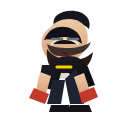
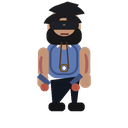
feat: ajustar player raster e derrota compartilhavel

Changed region(s): [[0.2188, 0.0, 0.7812, 0.875]]

diff --git a/src/features/game/GameExperience.tsx b/src/features/game/GameExperience.tsx
@@ -166,9 +166,9 @@ function createObstacle(id: number): ObstacleState {
       id,
       type,
       x: GAME_WIDTH + 40,
-      y: GROUND_Y - 124,
-      w: 82,
-      h: 124,
+      y: GROUND_Y - 104,
+      w: 74,
+      h: 104,
     };
   }
 
@@ -225,6 +225,10 @@ function getCityLabel(progress: number) {
 }
 
 function getOutcomeTitle(snapshot: Snapshot) {
+  if (snapshot.status === "lost" && snapshot.total >= 8) {
+    return "Cidade em Movimento";
+  }
+
   if (snapshot.easterEggsFound >= 4) {
     return "Guardião da Memória";
   }
@@ -622,7 +626,7 @@ export default function GameExperience({
         }
 
         if (inputRef.current.jumpPressed && player.onGround) {
-          player.vy = -585;
+          player.vy = -615;
           player.onGround = false;
         }
 
@@ -701,7 +705,7 @@ export default function GameExperience({
             obstacle.type === "processinho"
               ? { x: obstacle.x + 18, y: obstacle.y + 16, w: obstacle.w - 36, h: obstacle.h - 32 }
               : obstacle.type === "muralha"
-                ? { x: obstacle.x + 14, y: obstacle.y + 12, w: obstacle.w - 28, h: obstacle.h - 20 }
+                ? { x: obstacle.x + 18, y: obstacle.y + 18, w: obstacle.w - 36, h: obstacle.h - 34 }
                 : { x: obstacle.x + 14, y: obstacle.y + 12, w: obstacle.w - 28, h: obstacle.h - 18 };
 
           if (intersects(playerHitbox, hitbox)) {
@@ -765,6 +769,14 @@ export default function GameExperience({
   }, [assets, prefersReducedMotion, gameStarted, runId]);
 
   const outcomeTitle = getOutcomeTitle(snapshot);
+  const didWin = snapshot.status === "won";
+  const finishTitle = didWin
+    ? "Você reuniu relatos e ajudou a organizar uma cidade melhor."
+    : "Você travou numa barreira, mas sua tentativa ainda ajuda a puxar mais gente para a missão.";
+  const shareLead = didWin
+    ? `Resultado · ${snapshot.total} relatos · ${snapshot.obstaclesDodged} obstáculos desviados · ${snapshot.easterEggsFound} easter eggs`
+    : `Tentativa compartilhável · ${snapshot.total} relatos · ${snapshot.obstaclesDodged} obstáculos desviados · ${snapshot.easterEggsFound} easter eggs`;
+  const shareButtonLabel = didWin ? "Compartilhar resultado" : "Compartilhar tentativa";
   const shareUrlAbsolute = toAbsoluteUrl(shareUrl);
   const shareMessage = buildGameShareMessage({
     link: shareUrlAbsolute,
@@ -1102,20 +1114,18 @@ export default function GameExperience({
             <div className="game-finish">
               <div className="game-finish__panel">
                 <p className="game-finish__eyebrow">{outcomeTitle}</p>
-                <h3 className="game-finish__title">
-                  Você reuniu relatos e ajudou a organizar uma cidade melhor.
-                </h3>
+                <h3 className="game-finish__title">{finishTitle}</h3>
                 <p className="game-finish__text">{SITE_IDENTITY.fullLabel}</p>
                 <p className="game-finish__text">{SITE_IDENTITY.appFullLabel}</p>
 
                 <div className="game-share-card" aria-label="Card visual compartilhável do resultado">
-                  <p className="game-share-card__eyebrow">Eu joguei a Missão Relâmpago</p>
+                  <p className="game-share-card__eyebrow">
+                    {didWin ? "Eu joguei a Missão Relâmpago" : "Eu joguei a Missão Relâmpago e quero puxar mais gente"}
+                  </p>
                   <h4 className="game-share-card__title">{outcomeTitle}</h4>
                   <p className="game-share-card__meta">Pré-campanha Alexandre VR Abandonada</p>
                   <p className="game-share-card__meta">Missão ÉLuta — Escutar • Cuidar • Organizar</p>
-                  <p className="game-share-card__lead">
-                    Resultado · {snapshot.total} relatos · {snapshot.obstaclesDodged} obstáculos desviados · {snapshot.easterEggsFound} easter eggs
-                  </p>
+                  <p className="game-share-card__lead">{shareLead}</p>
                   <div className="game-share-card__grid">
                     <span>Relatos coletados {snapshot.total}</span>
                     <span>Obstáculos desviados {snapshot.obstaclesDodged}</span>
@@ -1133,9 +1143,7 @@ export default function GameExperience({
                   <span>Easter eggs: {snapshot.easterEggsFound}/6</span>
                 </div>
                 <div className="game-finish__actions">
-                  <button type="button" className="btn btn-primary" onClick={handleShare}>
-                    Compartilhar resultado
-                  </button>
+                  <button type="button" className="btn btn-primary" onClick={handleShare}>{shareButtonLabel}</button>
                   <a href={appUrl} className="btn btn-secondary" onClick={() => handleAppCtaClick("app")}>Entrar no app</a>
                   <a href={signupUrl} className="btn btn-ghost" onClick={() => handleAppCtaClick("mission")}>Receber primeira missão</a>
                   <button type="button" className="btn btn-ghost" onClick={() => { handleAppCtaClick("share3"); void handleNetworkShare("whatsapp"); }}>

diff --git a/scripts/render-player-raster.py b/scripts/render-player-raster.py
@@ -1,0 +1,133 @@
+from pathlib import Path
+from PIL import Image, ImageDraw, ImageFilter
+
+ROOT = Path(__file__).resolve().parents[1]
+OUT = ROOT / "public" / "game"
+SCALE = 4
+W = 128 * SCALE
+H = 128 * SCALE
+
+
+def new_canvas():
+    return Image.new("RGBA", (W, H), (0, 0, 0, 0))
+
+
+def ellipse_box(cx, cy, rx, ry):
+    return (cx - rx, cy - ry, cx + rx, cy + ry)
+
+
+def draw_avatar(state: str):
+    image = new_canvas()
+    draw = ImageDraw.Draw(image)
+
+    skin = (194, 148, 118, 255)
+    beard = (24, 23, 25, 255)
+    hair = (28, 27, 31, 255)
+    shirt = (95, 122, 178, 255)
+    shirt_shadow = (62, 83, 130, 255)
+    jeans = (18, 22, 32, 255)
+    shoes = (20, 20, 22, 255)
+    tattoo = (151, 52, 53, 200)
+    pendant = (108, 78, 46, 255)
+    cord = (71, 52, 37, 255)
+    glasses = (16, 17, 20, 240)
+    light = (245, 241, 232, 255)
+    accent = (228, 189, 92, 255)
+
+    if state == "idle":
+        body_shift = 0
+        arm_shift = 0
+        leg_left = [202, 320, 230, 418]
+        leg_right = [278, 320, 306, 418]
+        torso = [186, 164, 326, 312]
+        left_arm = [152, 190, 194, 308]
+        right_arm = [318, 188, 360, 308]
+    elif state == "run":
+        body_shift = -10
+        arm_shift = 22
+        leg_left = [177, 314, 228, 420]
+        leg_right = [280, 304, 334, 420]
+        torso = [173, 168, 312, 308]
+        left_arm = [138, 194, 202, 296]
+        right_arm = [298, 174, 364, 272]
+    else:
+        body_shift = -4
+        arm_shift = 30
+        leg_left = [168, 302, 230, 412]
+        leg_right = [282, 300, 344, 412]
+        torso = [180, 158, 324, 300]
+        left_arm = [141, 184, 210, 278]
+        right_arm = [302, 182, 372, 280]
+
+    cx = 256 + body_shift
+
+    draw.rounded_rectangle(tuple(torso), radius=44, fill=shirt)
+    draw.rounded_rectangle((torso[0] + 12, torso[1] + 10, torso[2] - 14, torso[3] - 12), radius=40, outline=shirt_shadow, width=8)
+    draw.rounded_rectangle((cx - 16, torso[1] - 10, cx + 16, torso[1] + 34), radius=14, fill=skin)
+    draw.arc((cx - 34, torso[1] + 6, cx + 34, torso[1] + 64), 205, 335, fill=light, width=8)
+
+    draw.rounded_rectangle(tuple(left_arm), radius=28, fill=skin)
+    draw.rounded_rectangle(tuple(right_arm), radius=28, fill=skin)
+    draw.arc((left_arm[0] + 4, left_arm[1] + 30, left_arm[2] - 10, left_arm[3] - 10), 78, 246, fill=tattoo, width=12)
+    draw.arc((right_arm[0] + 6, right_arm[1] + 24, right_arm[2] - 8, right_arm[3] - 6), 280, 74, fill=tattoo, width=12)
+
+    if state == "idle":
+        draw.rounded_rectangle((150, 294, 192, 350), radius=18, fill=skin)
+        draw.rounded_rectangle((320, 292, 362, 350), radius=18, fill=skin)
+    elif state == "run":
+        draw.rounded_rectangle((136, 278, 182, 334), radius=18, fill=skin)
+        draw.rounded_rectangle((340, 244, 384, 298), radius=18, fill=skin)
+    else:
+        draw.rounded_rectangle((132, 256, 178, 312), radius=18, fill=skin)
+        draw.rounded_rectangle((346, 254, 392, 312), radius=18, fill=skin)
+
+    draw.polygon([(leg_left[0], leg_left[1]), (leg_left[1], leg_left[1] - 16), (leg_left[2], leg_left[3]), (leg_left[0] + 8, leg_left[3])], fill=jeans)
+    draw.polygon([(leg_right[0], leg_right[1]), (leg_right[1], leg_right[1] - 18), (leg_right[2], leg_right[3]), (leg_right[0] + 10, leg_right[3])], fill=jeans)
+
+    draw.rounded_rectangle((leg_left[0] - 8, leg_left[3] - 8, leg_left[0] + 58, leg_left[3] + 26), radius=14, fill=shoes)
+    draw.rounded_rectangle((leg_right[0] - 6, leg_right[3] - 8, leg_right[0] + 60, leg_right[3] + 26), radius=14, fill=shoes)
+
+    head_box = ellipse_box(cx, 108, 66, 76)
+    draw.ellipse(head_box, fill=skin)
+    draw.pieslice((cx - 82, 50, cx + 72, 154), 190, 348, fill=hair)
+    draw.pieslice((cx - 72, 16, cx + 84, 118), 210, 346, fill=hair)
+    draw.polygon([(cx - 26, 20), (cx + 14, 6), (cx + 58, 18), (cx + 34, 54)], fill=hair)
+    draw.rounded_rectangle((cx - 70, 108, cx + 70, 178), radius=30, fill=beard)
+    draw.ellipse((cx - 44, 72, cx + 44, 144), fill=skin)
+    draw.rounded_rectangle((cx - 58, 82, cx + 58, 118), radius=16, fill=glasses)
+    draw.rounded_rectangle((cx - 50, 86, cx - 4, 116), radius=12, fill=(22, 24, 28, 245))
+    draw.rounded_rectangle((cx + 4, 86, cx + 50, 116), radius=12, fill=(22, 24, 28, 245))
+    draw.rectangle((cx - 4, 96, cx + 4, 102), fill=(72, 72, 76, 220))
+    draw.line((cx - 14, 136, cx + 18, 136), fill=(110, 56, 46, 255), width=7)
+    draw.line((cx - 46, 82, cx - 18, 76), fill=hair, width=8)
+    draw.line((cx + 10, 76, cx + 42, 82), fill=hair, width=8)
+
+    draw.line((cx - 10, torso[1] + 4, cx - 18, torso[1] + 110), fill=cord, width=5)
+    draw.line((cx + 10, torso[1] + 4, cx + 18, torso[1] + 110), fill=cord, width=5)
+    draw.rounded_rectangle((cx - 16, torso[1] + 92, cx + 16, torso[1] + 124), radius=8, outline=pendant, width=6)
+    draw.polygon([(cx, torso[1] + 98), (cx + 9, torso[1] + 108), (cx, torso[1] + 118), (cx - 9, torso[1] + 108)], outline=pendant, fill=(0, 0, 0, 0))
+
+    if state == "idle":
+        draw.line((154, 300, 196, 336), fill=shirt_shadow, width=20)
+        draw.line((324, 300, 284, 336), fill=shirt_shadow, width=20)
+        draw.rounded_rectangle((162, 334, 194, 364), radius=14, fill=(181, 84, 66, 255))
+        draw.rounded_rectangle((286, 334, 318, 364), radius=14, fill=(181, 84, 66, 255))
+    elif state == "run":
+        draw.line((150, 278, 204, 318), fill=shirt_shadow, width=20)
+        draw.line((316, 248, 356, 286), fill=shirt_shadow, width=20)
+        draw.rounded_rectangle((164, 310, 202, 342), radius=14, fill=(181, 84, 66, 255))
+        draw.rounded_rectangle((348, 270, 386, 304), radius=14, fill=(181, 84, 66, 255))
+    else:
+        draw.line((152, 260, 204, 306), fill=shirt_shadow, width=20)
+        draw.line((322, 258, 372, 308), fill=shirt_shadow, width=20)
+        draw.rounded_rectangle((166, 294, 204, 326), radius=14, fill=(181, 84, 66, 255))
+        draw.rounded_rectangle((356, 290, 394, 324), radius=14, fill=(181, 84, 66, 255))
+
+    image = image.filter(ImageFilter.GaussianBlur(radius=0.4))
+    image = image.resize((128, 128), Image.Resampling.LANCZOS)
+    return image
+
+
+for state in ("idle", "run", "jump"):
+    draw_avatar(state).save(OUT / f"player-{state}.png")
+    print(f"saved player-{state}.png")
